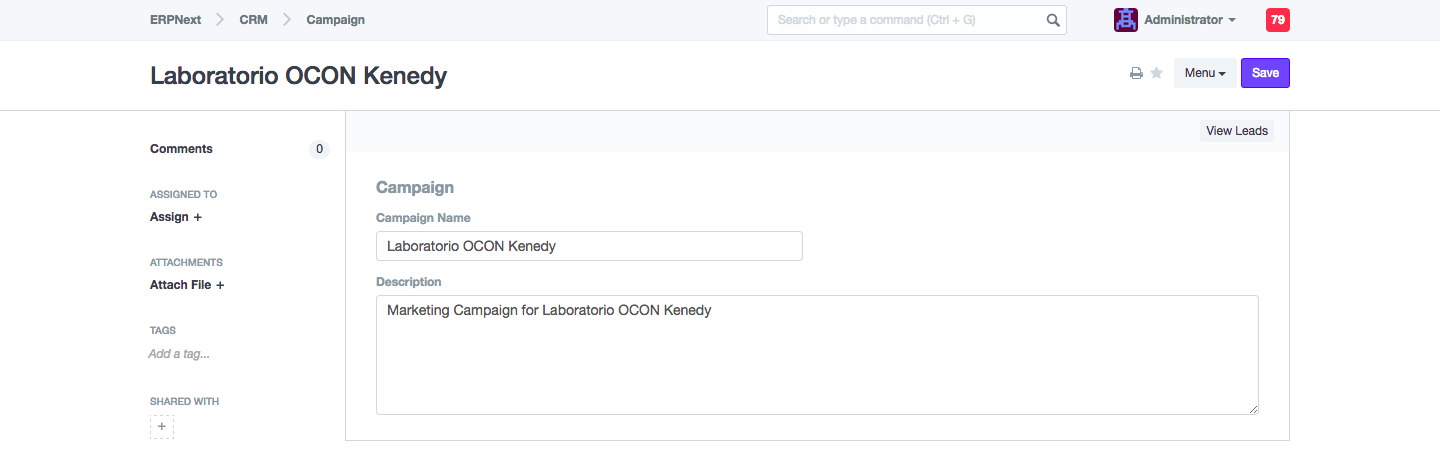
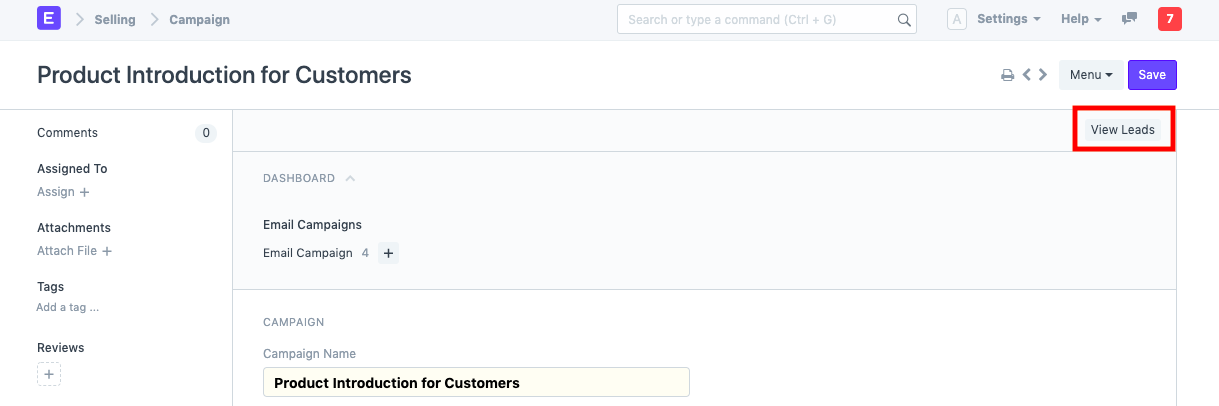
docs: Email Campaign and Campaign (#436)
* docs: email-campaign

* fix: changed screenshots

* fix: changed screenshots

* fix: updated screenshots

* Update campaign.md

* Update email-campaign.md

* fix: changes updated

* fix: changes screenshots

diff --git a/erpnext_com/www/docs/user/manual/en/CRM/email-campaign.md b/erpnext_com/www/docs/user/manual/en/CRM/email-campaign.md
@@ -1,0 +1,73 @@
+<!-- add-breadcrumbs -->
+# Email Campaign
+
+**An Email Campaign is a coordinated set of emails sent to people according to a particular schedule.**
+
+Email Campaigns are still one of the most effective ways to reach your Customers, Contacts or Leads and keep them engaged. For example, you could set up Email Campaigns for introducing your product to the customers, with every email revealing an interesting feature of your product.
+
+To create an Email Campaign, go to:
+
+ > Home > CRM > Email Campaign
+
+## 1. How to Create an Email Campaign
+
+1. Go to the Email Campaign list, click on New.
+2. Select the [Campaign](/docs/user/manual/en/CRM/campaign) for which you want to set up an Email Campaign.
+3. Set the 'Start Date' for the Email Campaign.
+4. In 'Email Campaign For', select whether you want to set up Email Campaign for a Lead or a Contact.
+5. In 'Recipient', select the respective Lead or Contact for whom you want to start the Email Campaign.
+6. In 'Sender', select the user of the system who should be the sender of the emails.
+7. Save
+
+    <img class="screenshot" alt="Email Campaign" src="{{docs_base_url}}/assets/img/crm/email-campaign.png">
+
+    The above Email Campaign is for the following Campaign:
+
+    <img class="screenshot" alt="Campaign Schedule" src="{{docs_base_url}}/assets/img/crm/campaign-email-schedule.png">    
+
+    **Note**: The **Send After (days)** field in Campaign specifies the day on which email is to be sent relative to the **Start Date** of **Email Campaign**. Notice the 'End Date' in the above Email Campaign. It is '26-07-2019', which is 4 days after the 'Start Date', '22-07-2029', as the Campaign Schedule ends on day 4.
+
+### 1.1 Create multiple Email Campaigns for a Campaign
+
+You can also create new Email Campaigns for different Leads or Contacts for the same Campaign though the Campaign Dashboard.
+
+1. Go to the Campaign for which you want to create Email Campaigns.
+2. Click on + in front of Email Campaigns to create a new Email Campaign for the Campaign.
+
+    <img class="screenshot" alt="Email Campaigns from Dashboard" src="{{docs_base_url}}/assets/img/crm/email-campaigns-from-dash.png">
+
+## 2. Features
+
+### 2.1 Linked Communication
+
+When emails are sent to the respective leads or contacts, Communication is linked to the Email Campaign document. You can view all the emails sent in your document.
+
+<img class="screenshot" alt="Linked Communication" src="{{docs_base_url}}/assets/img/crm/email-campaign-linked-comm.png">
+
+### 2.2 Unsubscribe from Email Campaign
+
+If a lead or contact does not want to continue getting emails regarding the campaign, he or she can unsubscribe from the Email Campaign via the unsubscribe link sent with the email.
+
+<img class="screenshot" alt="Unsubscribe link" src="{{docs_base_url}}/assets/img/crm/unsubscribe-link.png">
+
+When the lead or contact unsubscribes, the status of the Email Campaign document changes to 'Unsubscribed'.
+
+<img class="screenshot" alt="Unsubscribed" src="{{docs_base_url}}/assets/img/crm/email-campaign-unsubscribed.png">
+
+### 2.3 Status indication
+
+Status indicates the state of the Email Campaign, the various Statuses are:
+
+- **Scheduled**: When the Email Campaign has not yet started but scheduled on a future 'Start Date'.
+- **In Progress**: When there are still more campaign mails to be sent.
+- **Completed**: When all the emails have been sent according to the schedule set up in the Campaign.
+- **Unsubscribed**: When the Lead or Contact unsubscribes from the Campaign.
+
+    <img class="screenshot" alt="Email Campaign Status" src="{{docs_base_url}}/assets/img/crm/email-campaign-status.png">
+
+## 3. Related Topics
+1. [Campaign](/docs/user/manual/en/CRM/campaign)
+1. [Lead](/docs/user/manual/en/CRM/lead)
+1. [Contact](/docs/user/manual/en/CRM/contact)
+
+Next: [Newsletter](/docs/user/manual/en/CRM/newsletter)

diff --git a/erpnext_com/www/docs/user/manual/en/CRM/campaign.md b/erpnext_com/www/docs/user/manual/en/CRM/campaign.md
@@ -2,21 +2,24 @@
 # Campaign
 
 **A Campaign is a full-scale implementation of a sales strategy to promote a
-product or a service.**
+product or service.**
 
 This is done in a market segment of a particular geographical area to achieve specified objectives.
 
+To access Campaign, go to:
+> Home > CRM > Campaign
+
 <img class="screenshot" alt="Campaign" src="{{docs_base_url}}/assets/img/crm/campaign.png">
 
-### 1. How to create a Campaign
-1. Go to **CRM > Setup > Campaign > New**.
-2. Enter a name for the campaign and select the [Naming Series](/docs/user/manual/en/setting-up/settings/naming-series).
+## 1. How to Create a Campaign
+1. Go to the Campaign list, click on new.
+2. Enter a name for the campaign.
 3. Enter a description to describe what the campaign is about.
 4. Save.
 
-### 2. Features
+## 2. Features
 
-#### 2.1 Tag Campaign in Lead, Opportunity and Quotation
+### 2.1 Tag Campaign in Lead, Opportunity, and Quotation
 
 When a marketing campaign generates a lead or an opportunity, you can tag the campaign while creating the [Lead](/docs/user/manual/en/CRM/lead) or [Opportunity](/docs/user/manual/en/CRM/opportunity). You can also tag the campaign in [Quotation](/docs/user/manual/en/selling/quotation).
 
@@ -25,7 +28,7 @@ This helps in assessing the effectiveness of a marketing campaign by calculating
 <img class="screenshot" alt="Campaign - View Leads" src="{{docs_base_url}}/assets/img/crm/campaign-in-lead.gif">
 
 
-#### 2.2 View Leads Generated by a Campaign
+### 2.2 View Leads Generated by a Campaign
 
 1. Click on 'View Leads' button in the campaign.
 
@@ -34,11 +37,33 @@ This helps in assessing the effectiveness of a marketing campaign by calculating
 2. You will see a filtered list of leads made against the campaign.
 3. You can also create new leads against the campaign by clicking on 'New'
 
-<img class="screenshot" alt="Campaign - New Lead" src="{{docs_base_url}}/assets/img/crm/campaign-new-lead.png">
+     <img class="screenshot" alt="Campaign - New Lead" src="{{docs_base_url}}/assets/img/crm/campaign-new-lead.png">
 
-#### 3. Related Topics
+### 2.3 Set up email schedules for Email Campaigns
+
+If you want to carry out a campaign using emails for your leads or contacts, [Email Campaign](/docs/user/manual/en/CRM/email-campaign) serves the purpose.
+
+You will have to set up a schedule for the campaign. Click on 'Add Row' to add an entry to the campaign schedule.
+
+<img class="screenshot" alt="Campaign Schedule" src="{{docs_base_url}}/assets/img/crm/campaign-email-schedule.png">
+
+-  In **Email Template**, select an 'Email Template' which you would like to send via email to the lead or contact. You can create one as follows:
+
+     <img class="screenshot" alt="Campaign - Email Template" src="{{docs_base_url}}/assets/img/crm/email-template.png">
+
+-  In **Send After (days)**, specify the number of days after which the respective email should be sent. Using this field, the day on which email is to be sent is calculated relative to the **Start Date** of **Email Campaign**.
+
+### 2.4 Dashboard
+ 
+The Campaign dashboard shows you all the Email Campaigns linked to the Campaign. You can also create a new Email Campaign from here.
+
+<img class="screenshot" alt="Campaign Dashboard" src="{{docs_base_url}}/assets/img/crm/email-campaigns-from-dash.png">
+
+
+## 3. Related Topics
 1. [Lead](/docs/user/manual/en/CRM/lead)
 1. [Opportunity](/docs/user/manual/en/CRM/opportunity)
 1. [Quotation](/docs/user/manual/en/selling/quotation)
+1. [Email Campaign](/docs/user/manual/en/CRM/email-campaign)
 
-{next}
+Next: [Email Campaign](/docs/user/manual/en/CRM/email-campaign)

diff --git a/erpnext_com/www/docs/user/manual/en/CRM/index.md b/erpnext_com/www/docs/user/manual/en/CRM/index.md
@@ -15,6 +15,7 @@ The CRM module has the following features:
 1. [Contact](/docs/user/manual/en/CRM/contact)
 1. [Address](/docs/user/manual/en/CRM/address)
 1. [Campaign](/docs/user/manual/en/CRM/campaign)
+1. [Email Campaign](/docs/user/manual/en/CRM/email-campaign)
 1. [Newsletter](/docs/user/manual/en/CRM/newsletter)
 
 ##### 1.2 Reports
